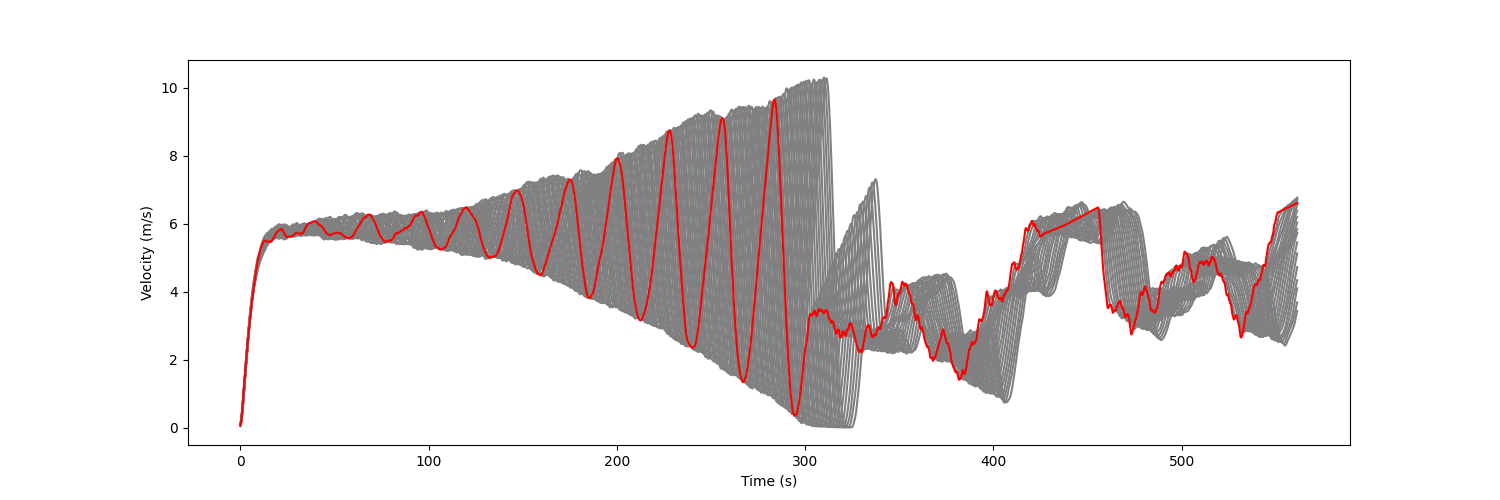
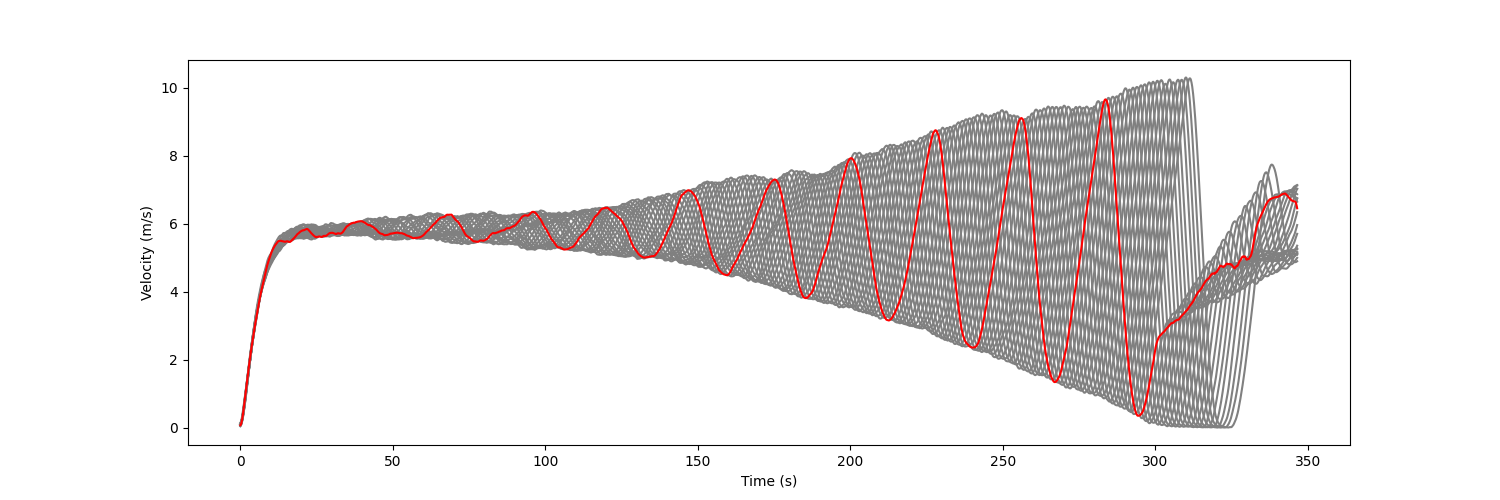
reward change

diff --git a/experiment.py b/experiment.py
@@ -1,4 +1,5 @@
 import gym
+import numpy as np
 import ray
 from ray import tune
 from ray.rllib.agents import dqn, ppo
@@ -58,7 +59,6 @@ class Experiment:
         elif self.algorithm == "ppo":
             self.agent = ppo.PPOTrainer(config=self.config)
 
-        policy = self.agent.get_policy()
 
         self.agent.restore(path)
 
@@ -71,22 +71,40 @@ class Experiment:
         obs = env.reset()
 
         met = Metrics(env)
-        while not done:
-            action = self.agent.compute_single_action(obs)
 
-            obs, reward, done, info = env.step(action)
+        if self.config["model"]["use_lstm"]:
+            state = [np.zeros(self.config["model"]["lstm_cell_size"], np.float32) for _ in range(2)]
+            prev_a = 0
+            prev_r = 0
 
-            #
-            # if info["action"] <= 1.0 and info["action"] >= -1.0:
-            #     print("Action:", info["action"])
-            #     print(env.action_steps, reward)
-            # else:
-            #     # print("Action:", action)
-            #     print("Action invalid:", action)
-            #     break
-            met.step()
-            # episode_reward += reward
-            # env.render()
-            # print(env.action_steps, reward)
-        met.plot()
-        return episode_reward
+            while not done:
+                action, state_out, _ = self.agent.compute_single_action(obs, state=state, prev_action=prev_a, prev_reward=prev_r)
+                obs, reward, done, info = env.step(action)
+                episode_reward += reward
+
+                met.step()
+                prev_a = action[0]
+                prev_r = reward
+                state = state_out
+
+            met.plot()
+            return episode_reward
+
+        else:
+            while not done:
+                action = self.agent.compute_single_action(obs)
+
+                obs, reward, done, info = env.step(action)
+                # if info["action"] <= 1.0 and info["action"] >= -1.0:
+                #     print("Action:", info["action"])
+                #     print(env.action_steps, reward)
+                # else:
+                #     # print("Action:", action)
+                #     print("Action invalid:", action)
+                #     break
+                met.step()
+                # episode_reward += reward
+                # env.render()
+                # print(env.action_steps, reward)
+            met.plot()
+            return episode_reward

diff --git a/Ring_Road/envs/ringroad.py b/Ring_Road/envs/ringroad.py
@@ -112,7 +112,6 @@ class RingRoad(gym.Env):
             if self.collision:
                 break
 
-
     def _reward(self, action):
 
         if action is None:
@@ -123,10 +122,10 @@ class RingRoad(gym.Env):
 
         # reward average velocity
         eta_2 = 4.
-        reward = self.state_extractor.get_average_vel() / 5
+        reward = self.state_extractor.get_average_vel() / 30
 
         # punish accelerations (should lead to reduced stop-and-go waves)
-        eta = 6  # 0.25
+        eta = 0.25  # 0.25
         mean_actions = eta * np.mean(np.abs(action))
         accel_threshold = 0
 

diff --git a/Ring_Road/constants.py b/Ring_Road/constants.py
@@ -35,7 +35,7 @@ def clean_image(mycar_image):
                 mycar_image.set_at((x, y), (0, 0, 0, 0))
 
 
-cwd = "/home/vamsi/Documents/GitHub/RingRoad-RL"
+cwd = "/home/vamsi/GitHub/RingRoad-RL"
 
 env_car_image = pygame.image.load(cwd + "/Ring_Road/sprites/env_vehicle.png")
 env_car_image = pygame.transform.scale(env_car_image, (CAR_PIX_LENGTH, CAR_PIX_WIDTH))
